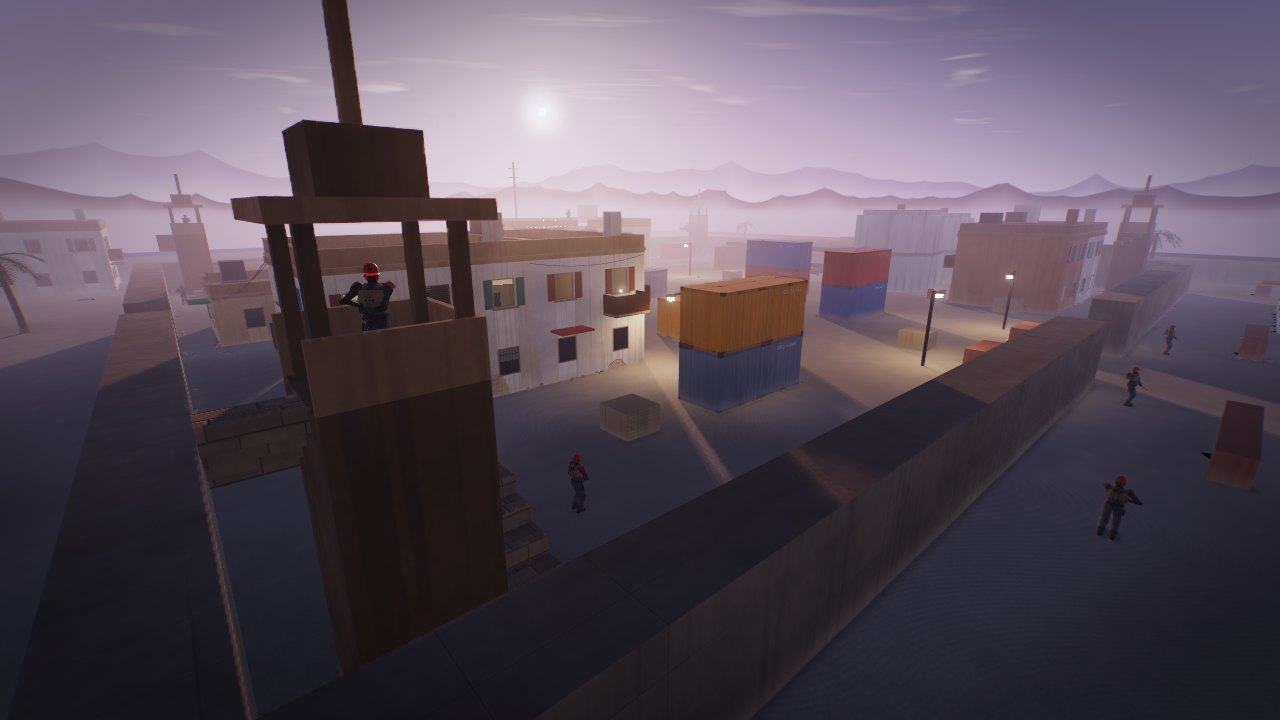
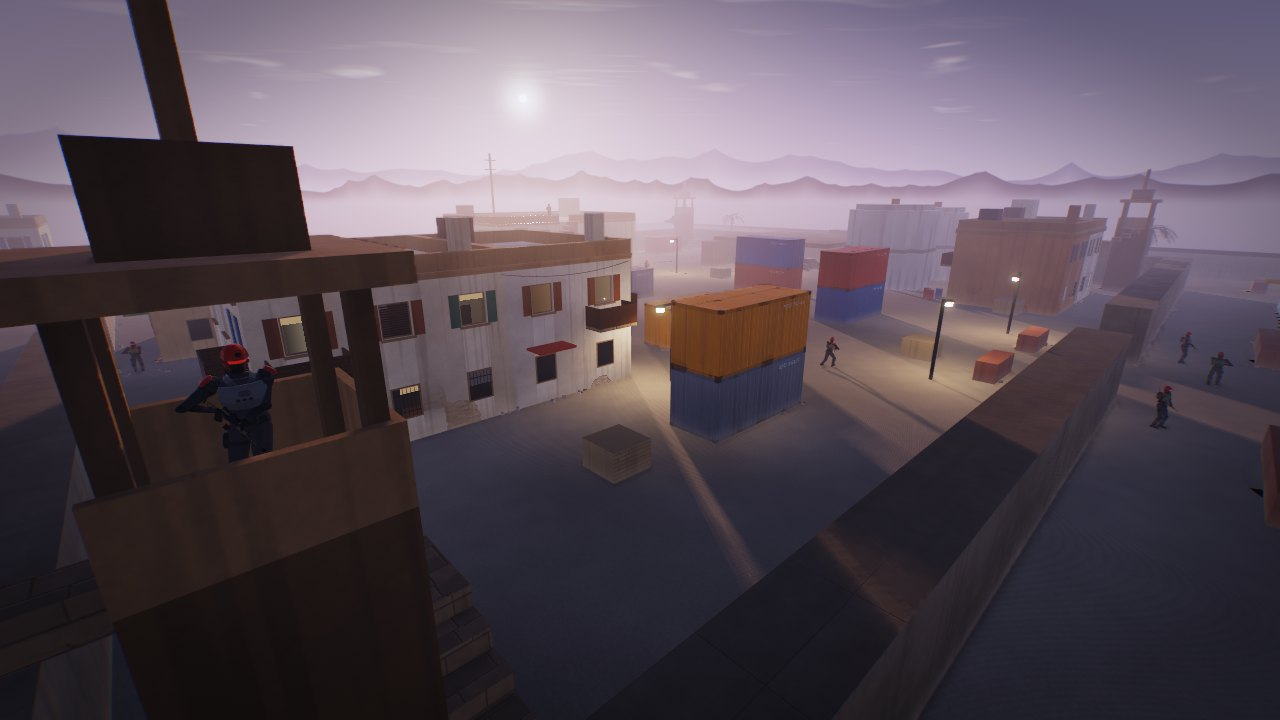
README: fresh screenshots of the current build, compacted
All nine shots retaken on the current renderer, HUD and kit: Citadel
(hero, minaret, souk), Harbor from the crane walkway, Refinery's pipe
racks, and the four Hostage Rescue scenes. Maps and modes share one
section; Hostage Rescue, download and multiplayer are condensed
(198 -> 148 lines) with every fact and the license notice kept.

diff --git a/README.md b/README.md
@@ -1,5 +1,5 @@
 <p align="center">
-  <img src="media/hero.jpg" alt="The mosque courtyard and minaret on Citadel at dusk" width="832">
+  <img src="media/hero.jpg" alt="The mosque, its minaret and dome over the courtyard on Citadel at dusk" width="832">
 </p>
 
 <h1 align="center">BlindDrop</h1>
@@ -14,159 +14,122 @@
 </p>
 
 <p align="center">
-  <img src="media/sniper.jpg" alt="Sniper lookout on top of Citadel's minaret" width="49%">
-  <img src="media/harbor.jpg" alt="The waterfront dock on Harbor" width="49%">
+  <img src="media/sniper.jpg" alt="Looking over Citadel's rooftops from the top of the minaret" width="49%">
+  <img src="media/harbor.jpg" alt="The container yard and lighthouse from Harbor's crane walkway" width="49%">
   <img src="media/refinery.jpg" alt="Pipe racks over mid on Refinery" width="49%">
-  <img src="media/citadel.jpg" alt="The market street through mid on Citadel" width="49%">
+  <img src="media/citadel.jpg" alt="The souk street on Citadel" width="49%">
 </p>
 
 ## The game
 
-- **Play with friends:** one click hosts a game, and everyone on your network sees it listed and
-  joins with another click. **Team Deathmatch** up to 9 v 9: ALPHA in red, BRAVO in blue, players
-  choose their side and bots fill the empty places.
+- **Play with friends:** one click hosts a game; everyone on your network sees it and joins with
+  another. **Team Deathmatch** up to 9 v 9, ALPHA in red against BRAVO in blue, bots filling the gaps.
 - **A hostage-rescue mission:** sneak into a guarded compound, free three hostages and walk them
   out to a helicopter.
-- **Five weapons:** rifle, bolt sniper, sidearm, knife and frag grenades on `1`-`5`, with no loadouts or unlocks.
-- **Real grenades:** cook, throw or lob them; they bounce, roll and are stopped by cover.
-- **A knife that fights back:** slash chains, a guard, and parries that stagger.
-- **Match summary and career:** the end screen adds your own match (headshots, best run without
-  dying) and lifetime totals saved in `config.cfg`.
-- **Armory:** pick one of five knives (combat, tanto, dagger, kukri, talon), one of eleven weapon
-  themes (camo, digital, tiger, fade, gilded and more) and a glove and gauntlet colourway. These
-  choices only change how your weapons and gloves look in first person. The same page sets the
-  weapon's field of view and a lower hip position that clears the middle of the screen.
+- **Five weapons** on `1`-`5` (rifle, bolt sniper, sidearm, knife, frag grenades), no loadouts or
+  unlocks. Grenades cook, bounce and roll; the knife chains slashes, guards and parries.
+- **Weapon handling:** realistic magazine changes, scopes, sway and inertia, tracers from the muzzle
+  to the impact, and a mantle over low walls.
 - **Movement:** air control, a slide that carries speed, and `Q`/`E` lean.
-- **Bots:** they hear you, remember you, flank, throw grenades and find their way around the big maps.
-- **A detailed world:** physically based materials, soft shadows, ambient occlusion, light shafts,
-  bloom, lamps and lit windows at dusk, and vehicles, palms and props modelled with curved bodies.
-- **Tracers:** every gun draws its rounds from the muzzle to the impact, and the barrel lines up
-  with the crosshair from the hip.
-- **Weapon handling:** realistic magazine changes (the old one drops, the hand fetches a fresh one
-  from the pouch), aim-down-sights scopes, weapon sway and inertia, and a mantle over low walls.
-- **No engine and no asset files:** maps, models and every sound are generated in code.
+- **Bots** hear you, remember you, flank, throw grenades and find their way around the big maps.
+- **Armory:** five knives, eleven weapon themes and glove colourways (first-person looks only), plus
+  the weapon's field of view and a lower hip position.
+- **Match summary and career:** your headshots and best run each match, lifetime totals in `config.cfg`.
+- **No engine and no asset files:** maps, models and every sound are generated in code, with
+  physically based materials, soft shadows, ambient occlusion, light shafts and lit windows at dusk.
 
-## Maps
+## Maps and modes
 
 | Map | |
 |---|---|
-| **Arena** | Procedural: a new layout and sky every match, so nobody starts with map knowledge. |
-| **Foundry**, **Bazaar**, **Outpost** | Handmade 48 m arenas: a gantry and side halls, a market square with rooftops, and long sniper lanes. |
-| **Citadel** | 104 m desert old town with A and B sites: a domed mosque, a climbable minaret, arched gates and rooftop stairs. |
-| **Harbor** | 104 m waterfront: brick warehouses, stacked containers, a crane walkway over the yard and a lighthouse. |
-| **Refinery** | 104 m industrial site: storage tanks, pipe racks over mid, a flare stack and a distillation-column lookout. |
-| **Compound** | 104 m walled desert stronghold at blue hour: a two-storey HQ, a hostage pen, a motor pool, four corner watchtowers and a helicopter pad. It is the Hostage Rescue map and also plays as a normal map. |
-
-**Rotate** moves to the next map every match.
-
-## Modes
+| **Arena** | Procedural: a new layout and sky every match. |
+| **Foundry**, **Bazaar**, **Outpost** | Handmade 48 m arenas: a gantry and side halls, a market square with rooftops, long sniper lanes. |
+| **Citadel** | 104 m desert old town: a domed mosque, a climbable minaret, arched gates and rooftop stairs. |
+| **Harbor** | 104 m waterfront: brick warehouses, stacked containers, a crane walkway and a lighthouse. |
+| **Refinery** | 104 m industrial site: storage tanks, pipe racks over mid, a flare stack and a column lookout. |
+| **Compound** | 104 m walled stronghold at blue hour, the Hostage Rescue map; also a normal map. |
 
 | Mode | |
 |---|---|
 | **Deathmatch** | First to the frag limit. |
+| **Team Deathmatch** | ALPHA (red) against BRAVO (blue), 1 v 1 up to 9 v 9; first side to the frag limit. |
 | **Gun Game** | Two kills per weapon move you up the ladder; the first knife kill wins. |
 | **Snipers Only** | The bolt sniper and nothing else. |
 | **Knives + Nades** | The knife, with grenades that regrow. |
-| **Last Man Standing** | No respawns; the last one alive takes the round, and you spectate once you're out. |
-| **Team Deathmatch** | ALPHA (red) against BRAVO (blue), 1 v 1 up to 9 v 9; the first side to the frag limit wins. |
-| **Hostage Rescue** | Operation Nightfall, a single-player stealth mission on Compound (details below). |
+| **Last Man Standing** | No respawns; the last one alive takes the round. |
+| **Hostage Rescue** | Operation Nightfall, a single-player stealth mission on Compound. |
 
-Pick the mode and map under **Singleplayer**. They apply on the next restart. A game you host has
-its own mode and map under **Multiplayer > Host settings**.
+Pick them under **Singleplayer** (they apply on the next restart); **Rotate** changes map every
+match. A game you host has its own mode and map under **Multiplayer > Host settings**.
 
 ### Hostage Rescue
 
 <p align="center">
   <img src="media/rescue.jpg" alt="Creeping up on the south gate, a sentry growing suspicious" width="49%">
   <img src="media/hostage.jpg" alt="Cutting a hostage's restraints in the pen" width="49%">
-  <img src="media/extraction.jpg" alt="The freed hostages reaching the helicopter on the LZ" width="49%">
-  <img src="media/compound.jpg" alt="A tower sniper watching over the compound at blue hour" width="49%">
+  <img src="media/extraction.jpg" alt="A freed hostage reaching the helicopter on the LZ" width="49%">
+  <img src="media/compound.jpg" alt="A tower guard watching over the compound at blue hour" width="49%">
 </p>
 
-Three hostages are held in the compound: in the pen, in the motor pool and on the HQ roof. Hold
-**R** beside one to cut the restraints. Freed hostages follow you, and the mission ends when all
-three reach the helicopter outside the north gate.
+Three hostages are held in the pen, the motor pool and on the HQ roof. Hold **R** beside one to
+cut the restraints, then lead all three to the helicopter outside the north gate. You carry a
+suppressed sniper rifle (heard within about 15 m), a pistol and a knife.
 
-- **Loadout:** a suppressed sniper rifle, a pistol and a knife. Only guards within about 15 m hear
-  a suppressed shot.
-- **Detection:** guards patrol routes, hold posts, and watch from the four towers. A guard that can
-  see you fills a meter, shown as an arc around your crosshair and a `?` over his head. The meter
-  fills faster when you are close, standing, moving or under a lamp.
-- **Spotted:** when the meter fills (`!`), the guard opens fire and radios the alarm unless you
-  kill him first. A guard who finds a body radios it in too.
-- **Alarm:** every guard hunts for you, and any hostage still tied up is executed when the timer
-  runs out.
-- **Takedowns:** a knife strike on a guard who is not fighting you is a silent kill.
-- **Difficulty:** sets the number of guards (10, 14 or 18), how far and how fast they see, how long
-  their radio call takes, and the execution timer (100, 75 or 55 s).
-- **Debrief:** shows your time, kills, takedowns and headshots, and a rating: Ghost, Shadow, Silent
-  or Loud.
-
-Offline only.
+Guards patrol, hold posts and watch from four towers. One who sees you fills a meter (an arc round
+your crosshair, `?` over his head), faster when you are close, standing, moving or under a lamp. At
+`!` he fires and radios the alarm unless you kill him first, and a guard who finds a body radios it
+too. The alarm sends everyone hunting and starts the hostages' execution clock. A knife strike on a
+guard who isn't fighting you is a silent takedown. Difficulty sets the guards (10, 14 or 18), their
+sight, the radio delay and the execution timer (100, 75 or 55 s); the debrief rates you Ghost,
+Shadow, Silent or Loud. Offline only.
 
 ## Download and run
 
-Linux x86_64, glibc 2.38 or newer (Ubuntu 23.10+, Debian 13+, Fedora 39+, Arch, SteamOS 3.7+):
+**Linux** x86_64 with glibc 2.38+ (Ubuntu 23.10+, Debian 13+, Fedora 39+, Arch, SteamOS 3.7+):
 
 ```sh
 chmod +x ./blinddrop-linux-amd64
 ./blinddrop-linux-amd64
 ```
 
-Windows 10 or 11 (64-bit): run `blinddrop-windows-amd64.exe`. It is not code-signed, so SmartScreen
-may ask you to confirm (More info > Run anyway). Windows players can play offline and join games;
-hosting needs Linux.
+**Windows** 10 or 11, 64-bit: run `blinddrop-windows-amd64.exe`. It is not code-signed, so
+SmartScreen may ask you to confirm (More info > Run anyway). Windows can play and join; hosting
+needs Linux. Check any download with `sha256sum -c SHA256SUMS`.
 
-Check a download with `sha256sum -c SHA256SUMS`. If the frame rate is low, turn off **Post Effects**
-in Settings > Video (it switches off SSAO, contact shadows, volumetric light, bloom and motion blur).
-Settings > HUD has **Perf Stats** (frame, CPU and GPU milliseconds on screen), plus crosshair style,
-colour and size, HUD scale and opacity, and optional **Enemy Markers** (a shape over enemies you can
-see, for players who can't rely on the red helmet).
-
-**Ballistics** in the Match tab makes rounds fly: they have a travel time, lose speed to drag, drop
-under gravity and can ricochet off steel. It is off by default and only applies offline, or on a server
-started with `--ballistics`.
+Low frame rate? Turn off **Post Effects** in Settings > Video. Settings > HUD has **Perf Stats**,
+crosshair and HUD options, and **Enemy Markers** (a shape over enemies you can see, for players who
+can't rely on colour). **Ballistics** in the Match tab gives rounds travel time, drag, drop and
+ricochets; it is off by default and applies offline or on a server started with `--ballistics`.
 
 ## Multiplayer
-
-Anyone can host; up to 8 players per arena, and bots fill the empty slots. The default port is UDP 31415.
 
 <p align="center">
   <img src="media/teams.jpg" alt="An ALPHA rifleman in red pushing past two downed BRAVO soldiers in blue on Citadel" width="49%">
   <img src="media/host.jpg" alt="The Host settings page: Team Deathmatch, 5 v 5, bots fill the teams, friendly fire off" width="49%">
 </p>
 
-From the menu, open **MULTIPLAYER**:
+Up to 8 players per arena, with bots in the empty slots. Open **MULTIPLAYER**:
 
-- **Host a game** starts a server on your PC and puts you in it. **Host settings** (the row under it)
-  picks that game's mode, map, bots, difficulty and frag limit, separately from SINGLEPLAYER.
-  Leaving the match or closing the game shuts it down. Hosting needs the Linux build; Windows
-  players can join.
-- **Games on your network** lists every game on your LAN, refreshed every second. Click one to join.
-- **Join by address** takes an IP (or `host:port`) for games outside your network. The address is
-  remembered. Over the internet the host has to forward UDP 31415 on their router.
+- **Host a game** starts a server on your PC and puts you in it; it shuts down when you leave.
+  **Host settings** picks its mode, map, bots, difficulty and frag limit. Linux only.
+- **Games on your network** lists every game on your LAN. Click one to join.
+- **Join by address** takes an IP or `host:port`. Over the internet the host forwards UDP 31415.
 
-A dedicated server works from the command line too:
+In **Team Deathmatch** the host sets the team size (1 v 1 to 9 v 9), whether bots fill the empty
+places (they step aside as players join) and friendly fire (off by default). Joining players pick
+ALPHA or BRAVO on the **CHOOSE TEAM** page, and the **TEAM** tile switches sides mid-match.
+Teammates carry a marker in their team colour, and the kill feed and scoreboard colour every name
+by team. Offline, Singleplayer has Team Deathmatch too: you and bot teammates against a bot team.
 
-```sh
-./blinddrop-linux-amd64 --server --mode lms --map citadel --name "friday night"   # host
-./blinddrop-linux-amd64 --connect 192.168.1.50                                    # join
-```
-
-**Team Deathmatch** (`tdm`) puts everyone on ALPHA or BRAVO; the first side to the frag limit wins.
-The host sets **TEAM SIZE** (1v1 to 9v9), **FILL TEAMS WITH BOTS** and **FRIENDLY FIRE** (off by
-default) in MULTIPLAYER > HOST SETTINGS. With filling on, bots take every place no player holds and
-step aside as players join. Joining players get the **CHOOSE TEAM** page (a full side refuses), and
-the **TEAM** tile in the menu switches sides mid-match. ALPHA wears red and BRAVO blue; teammates
-carry a marker in their team colour over their heads, and names in the kill feed and scoreboard
-take their team's colour. Offline, SINGLEPLAYER has Team Deathmatch too, with just TEAM SIZE and
-YOUR TEAM: bots fill both sides and friendly fire is off.
+A dedicated server works from the command line:
 
 ```sh
-./blinddrop-linux-amd64 --server --mode tdm --team-size 5 --team-fill 1 --friendly-fire 0   # 5v5, bots fill
+./blinddrop-linux-amd64 --server --mode tdm --team-size 5 --team-fill 1 --friendly-fire 0
+./blinddrop-linux-amd64 --server --mode lms --map citadel --name "friday night"
+./blinddrop-linux-amd64 --connect 192.168.1.50
 ```
 
-Modes: `dm gun sniper blades lms tdm`. Maps: `arena foundry bazaar outpost citadel harbor refinery compound rotate`.
+Modes: `dm tdm gun sniper blades lms`. Maps: `arena foundry bazaar outpost citadel harbor refinery compound rotate`.
 
 ## Privacy
 
@@ -183,7 +146,7 @@ make build/game-x86_64
 ./build/game-x86_64
 ```
 
-`make dist-linux RELEASE_VERSION=v0.5` builds the redistributable binary (needs Docker). The
+`make dist-linux RELEASE_VERSION=v0.6` builds the redistributable binary (needs Docker). The
 first-person models come from `tools/build_models.py`, regenerated with
 `blender -b --factory-startup -P tools/build_models.py`.
 
